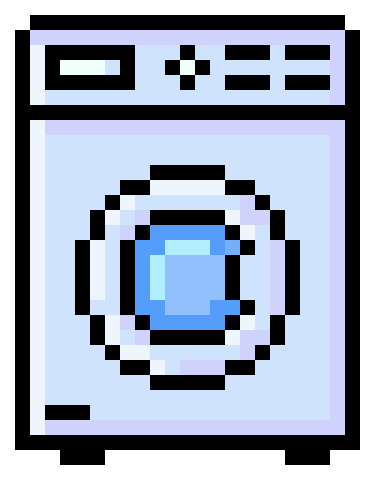
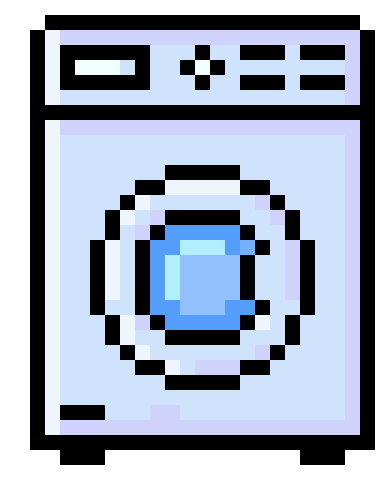
smooth

diff --git a/lib/main.dart b/lib/main.dart
@@ -121,18 +121,22 @@ class _MyAppState extends State<MyApp> {
 
   }
 
-
-  Widget _buildAnimation() {
+Widget _buildAnimation() {
   return Center(
     key: const Key('animation'),
-    child: Image.asset(
-      'assets/images/Animated.gif',
-      width: 300,
-      height: 400,
-      fit: BoxFit.contain, // 🔹 asigură proporții corecte
+    child: Transform.scale(
+      scale: 1.265, // 🔹 Zoom 2x — modifică după nevoie
+      child: Image.asset(
+        'assets/images/Animated.gif',
+        width: 400,
+        height: 600,
+        fit: BoxFit.contain,
+        filterQuality: FilterQuality.none, // 🔸 păstrează pixelii clari (pt pixel art)
+      ),
     ),
   );
 }
+
   Widget _buildDecision() {
   DateTime now = DateTime.now();
   String weekday = [
